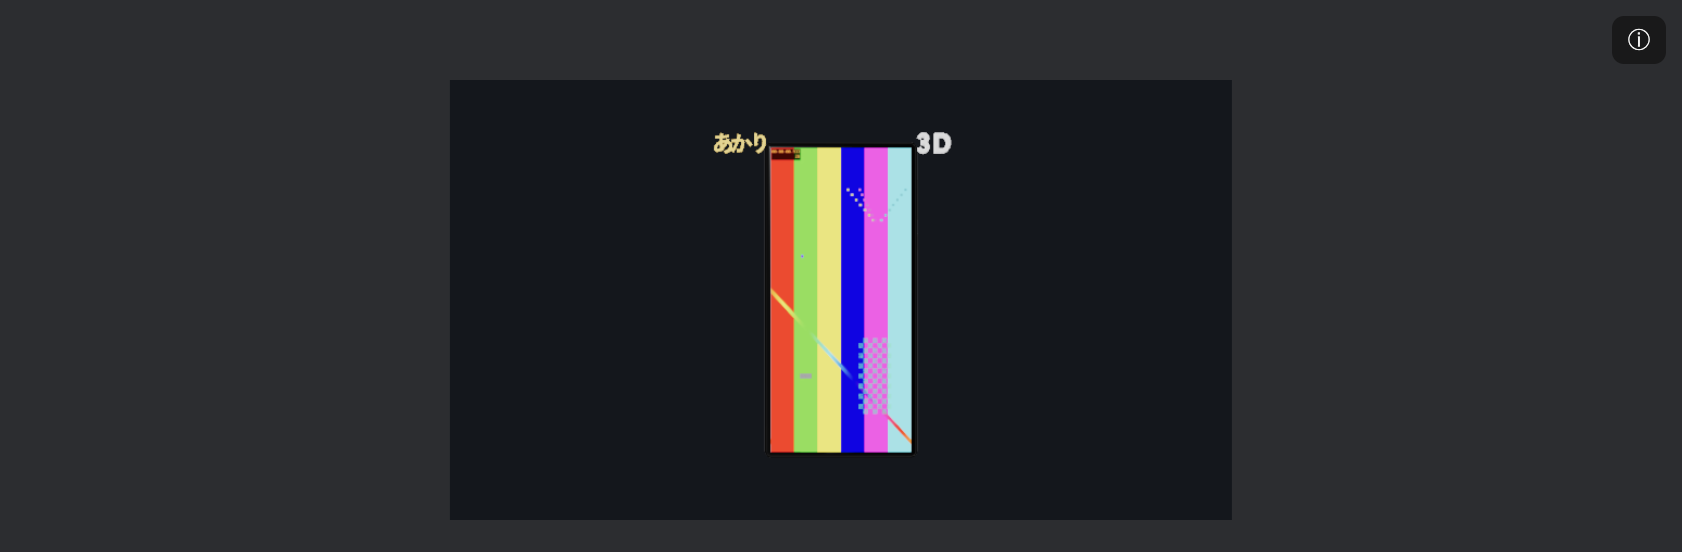
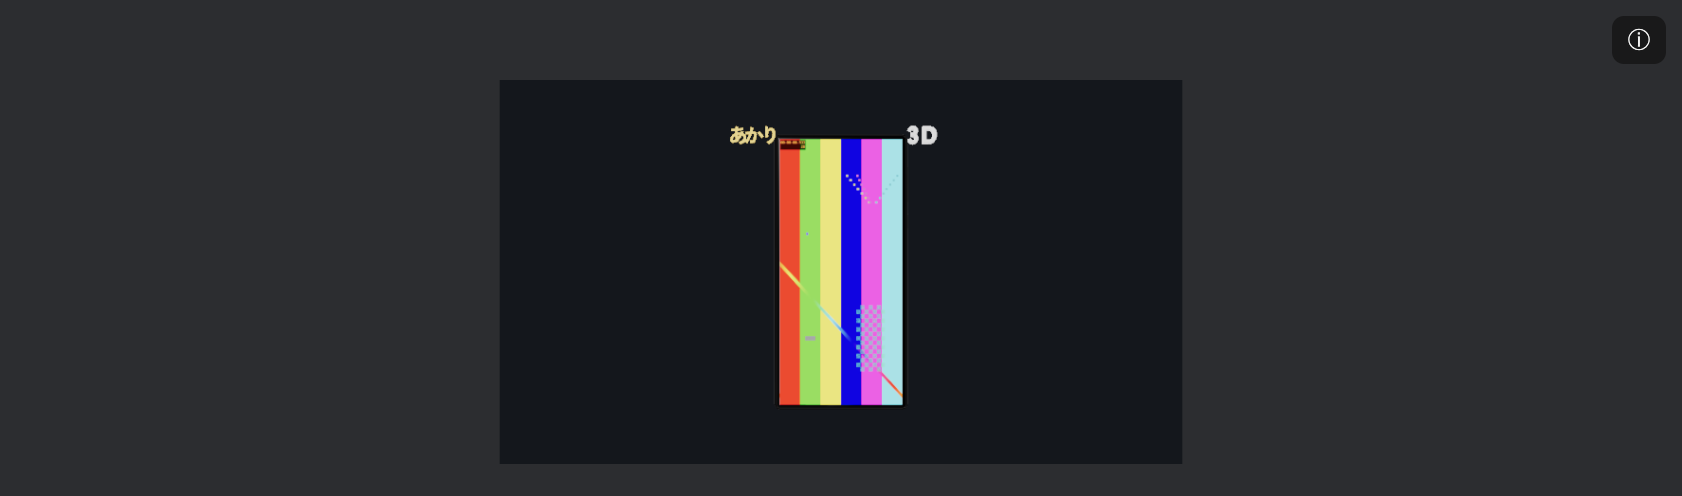
[機能追加] シェルのプレビューで WebGPU 3D 宣言を通す
- akari-preview の THREE_SCENE_KEYS に renderer を追加し、three-runtime の
  ALLOWED_SCENE_KEYS と一致させる（契約の訂正で所有に追加された箇所）
- parity テストは行内コメントの引用符を key として拾わないよう行単位で解析
- シェルをソースからビルドし直し、L2 をパッチ無しで再実施した証跡に更新。
  ブロック時の証跡（shell-allowlist-blocker.txt / shell-rejects-renderer-unpatched.json）を削除
- gpu 書き出し中の inspect().renderer.backend を l1 に記録（一時計測は復元済み）

Changed region(s): [[0.4019, 0.2419, 0.5874, 0.8468], [0.9584, 0.0605, 0.9893, 0.0907]]

diff --git a/apps/shell/extensions/akari-preview/src/common/three-scene-assets.ts b/apps/shell/extensions/akari-preview/src/common/three-scene-assets.ts
@@ -29,7 +29,10 @@ export const THREE_SCENE_KEYS: ReadonlySet<string> = new Set([
     'finishes',
     'shadows',
     'texts',
-    'physics'
+    'physics',
+    // 描画バックエンドの opt-in（2026-10-21-three-webgpu-backend）。ランタイムと同じく
+    // 省略 = "webgl" で、値の検証は three-runtime.js が行う。
+    'renderer'
 ]);
 
 /**

diff --git a/packages/overlay-runtime/evidence/three-webgpu-backend/README.md b/packages/overlay-runtime/evidence/three-webgpu-backend/README.md
@@ -11,6 +11,12 @@ No internal/unpublished scene asset is included.
 - `l1/electron-webgpu-inspect.json` / `l1/electron-webgpu-probe.png` — the same
   runtime and scene in Electron 39.8.7: `inspect().renderer.backend = "webgpu"`,
   `sharedCore = true`, `videoTextures = 1`, `textBlocks = 2`.
+- `l1/gpu-export-renderer-backend.json` — the page-side
+  `inspect().renderer.backend` recorded **during an actual `--engine gpu`
+  export** (150/150 frames, `threeError: null`, output SHA-256
+  `cedb2686…703e161`). A temporary, uncommitted probe in
+  `packages/gpu-export/src/page-runtime.js` captured it at frame 0; that file
+  was restored byte-identically afterwards.
 - `l1/frame-XXX-side.png` — WebGL (left) | WebGPU (right) at frames
   0, 30, 75, 120 and 149.
 - `l1/frame-XXX-diff8x.png` — absolute difference amplified 8x.
@@ -24,27 +30,25 @@ engines: see `mainPixelEquality` in `l1/summary.json`.
 
 ## L2 — shell preview
 
-The shell preview is **blocked by an out-of-bounds file**, not by the runtime.
-`apps/shell/extensions/akari-preview/src/common/three-scene-assets.ts` keeps its
-own `THREE_SCENE_KEYS` allowlist, and `apps/**` is edit-forbidden by the contract.
-Without changing it, the shell rejects `renderer` and shows the 3D load-error
-fallback — `l2/shell-rejects-renderer-unpatched.json` and
-`l2/shell-allowlist-blocker.txt`.
-
-For diagnosis only, the already-built untracked
-`apps/shell/lib/frontend/bundle.js` was patched for the duration of the L2 run
-(one literal in the minified allowlist) and then restored. The branch does not
-contain that patch. With the one-word allowlist change, the shell preview works:
+The shell preview now runs on the branch itself, with **no built-file patch**.
+The contract addendum (feedback r1 / task.md 訂正) puts
+`apps/shell/extensions/akari-preview/src/common/three-scene-assets.ts` in scope:
+`THREE_SCENE_KEYS` gained `'renderer'`, `apps/shell` was rebuilt from source,
+and the parity test parses the runtime key set line-by-line (its earlier
+substring regex also picked up the quoted `"webgl"` in a comment).
 
 - `l2/screenshot-initial.png` — `inspect()` ready, `backend: "webgpu"`,
-  `data-engine="three.js r186 webgpu"`.
-- `l2/screenshot-playing.png` — playback at ~1.3 s, 3D still ready.
-- `l2/screenshot-outside-window.png` — seek outside the overlay window
-  (visibility hidden); no crash.
+  `data-engine="three.js r186 webgpu"`, 720x405 canvas.
+- `l2/screenshot-playing.png` — playback at ~1.5 s, 3D still ready.
+- `l2/screenshot-outside-window.png` — seek to 2.5 s, outside the overlay
+  window (`visibility: hidden`); no crash.
+- `l2/screenshot-inside-window.png` — seek back to 1.0 s inside the window;
+  visible again, still ready.
 - `l2/screenshot-track-hidden.png` / `screenshot-track-shown.png` — track eye
-  hide/show (display:none → block); no crash.
+  hide/show (`display: none` → `block`); no crash.
 - `l2/screenshot-reopened.png` — preview tab closed (webview destroyed =
   dispose) and reopened from the project card; `inspect()` is ready again with
   `backend: "webgpu"`.
 - `l2/runtime-steps-window.json` / `l2/reopen-after-close.json` — the measured
-  step values (status, renderer, time, video currentTime, canvas engine).
+  step values (status, renderer, time, video currentTime, canvas engine,
+  console/page errors).
